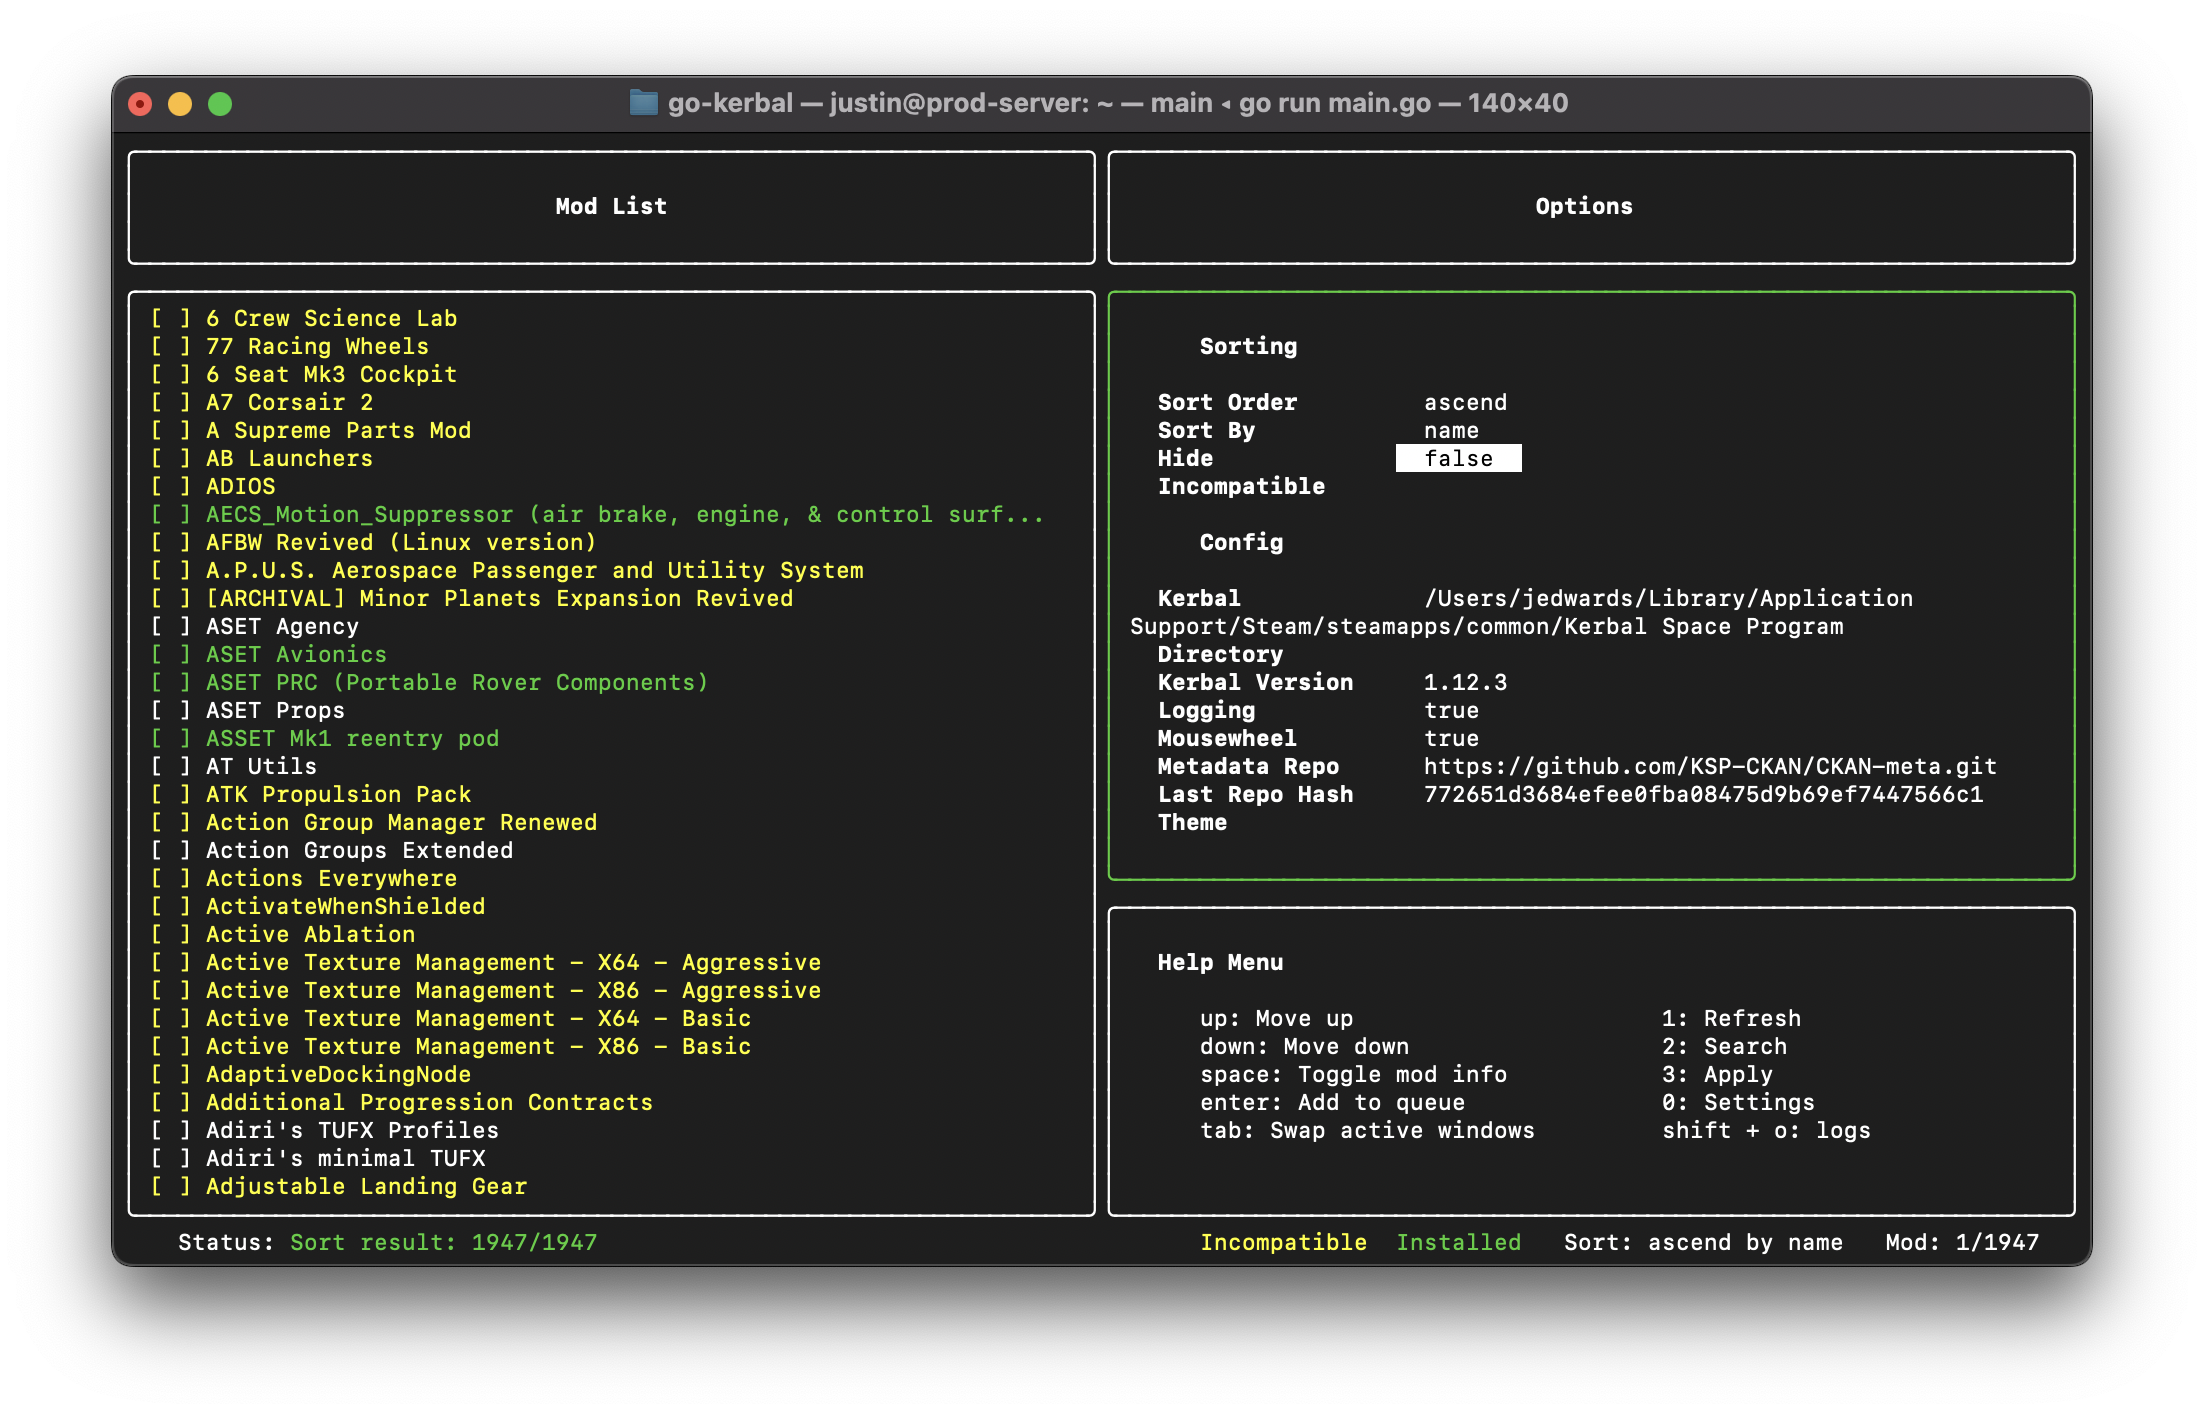
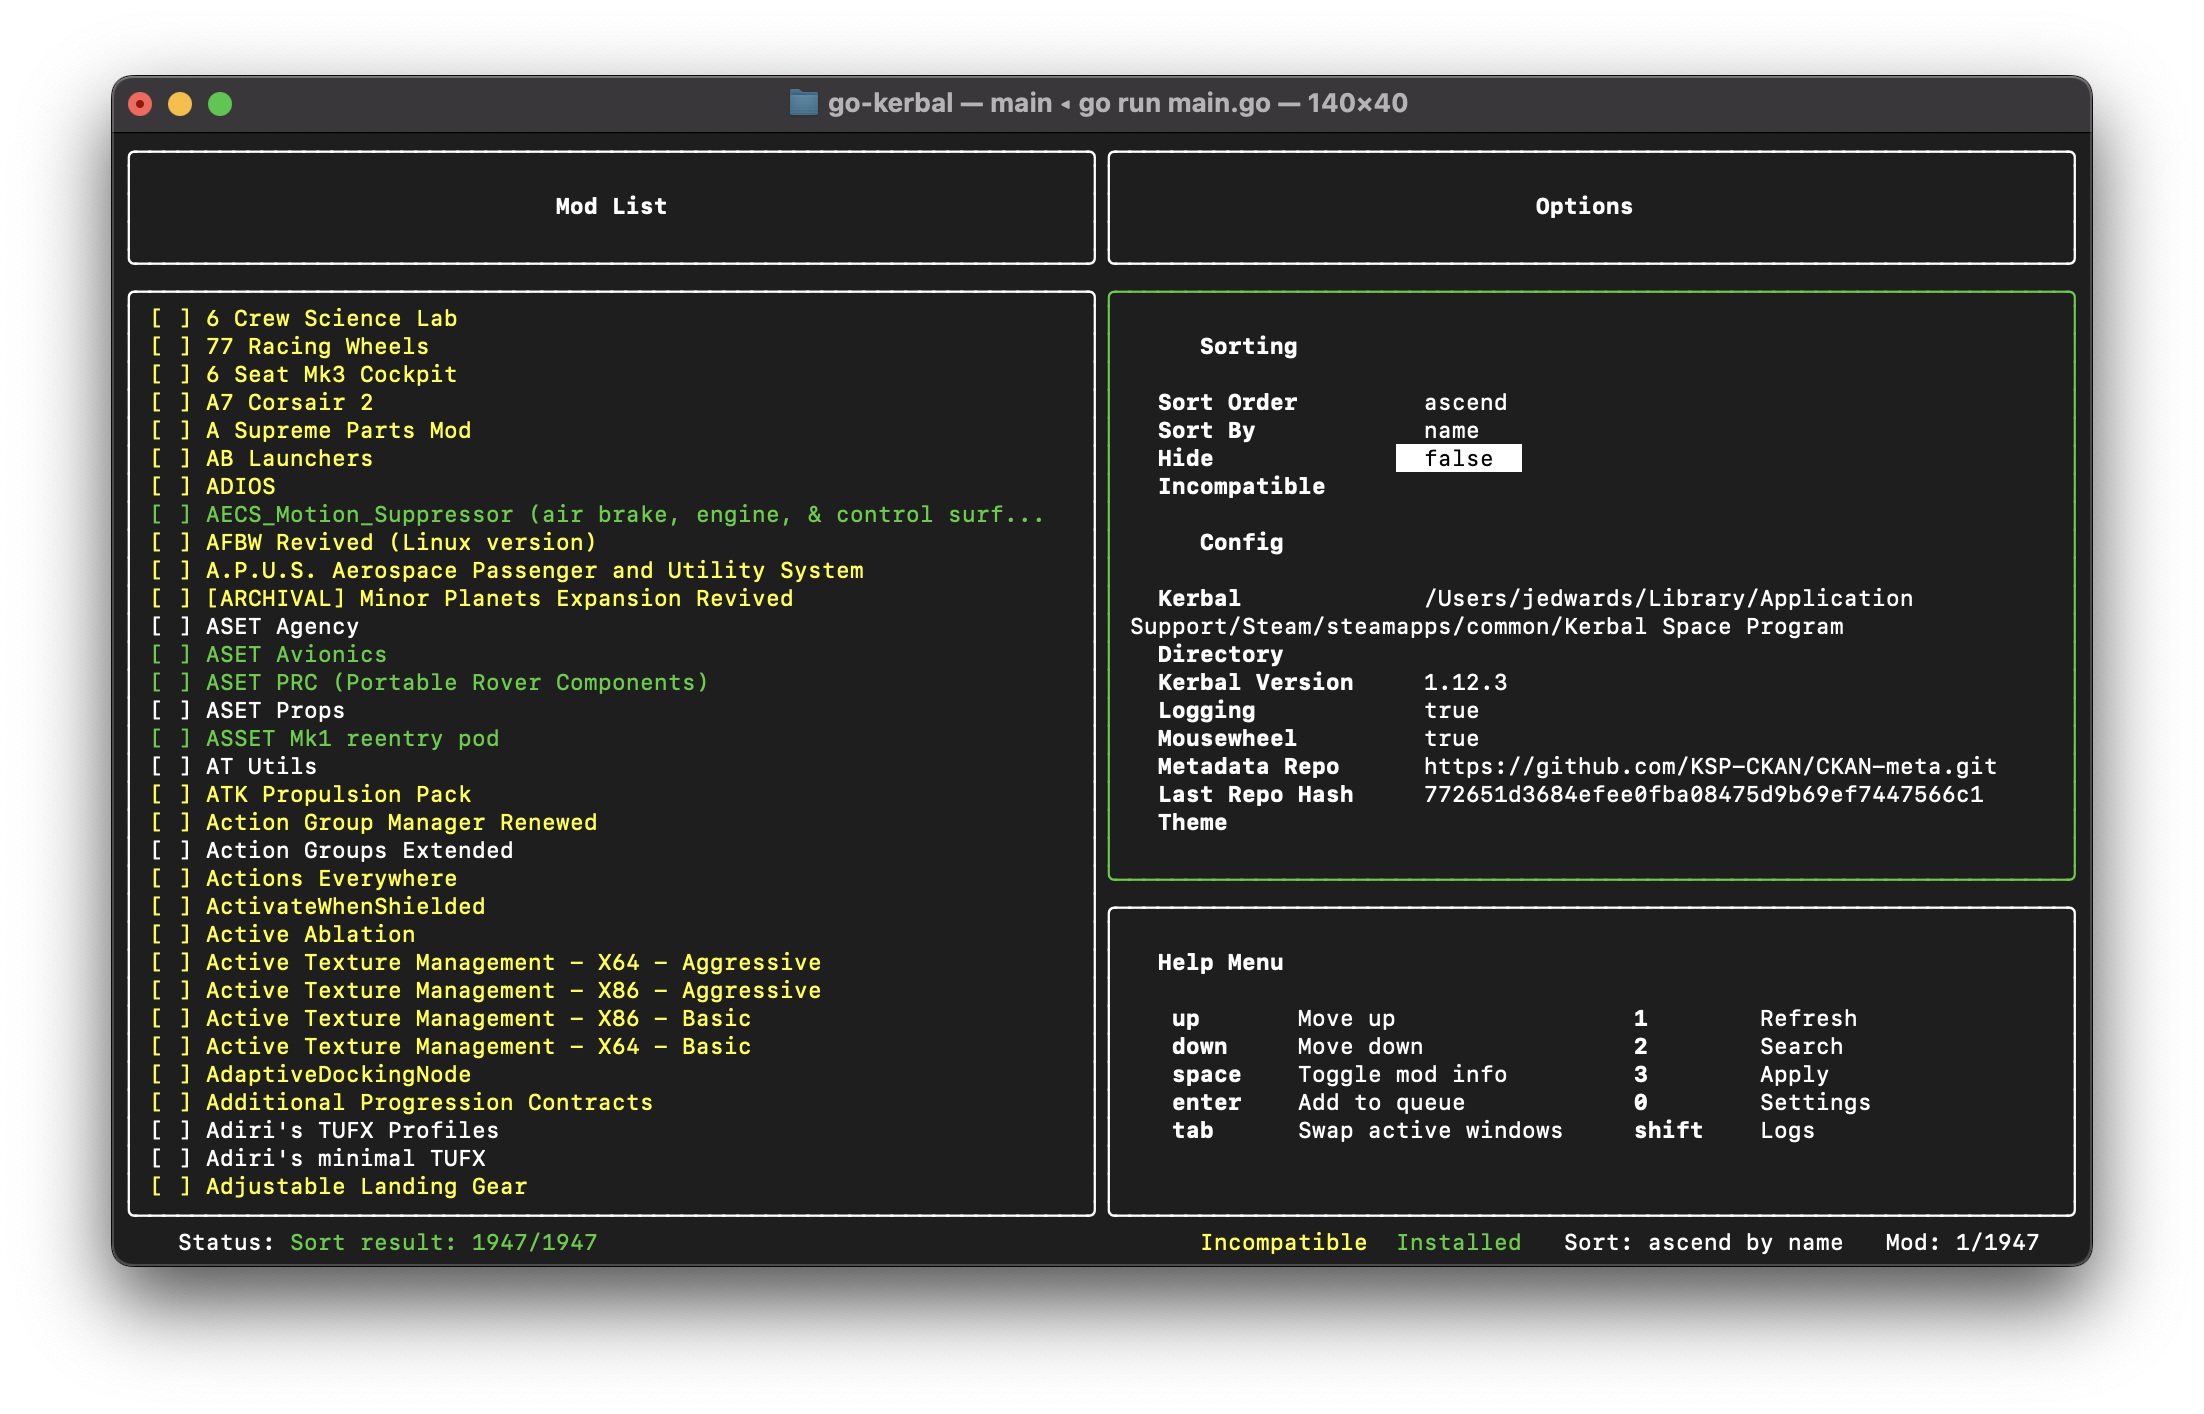
better formatted help view

diff --git a/internal/tui/views.go b/internal/tui/views.go
@@ -675,26 +675,26 @@ func (b Bubble) helpView() string {
 		Width(b.bubbles.commandViewport.Width).
 		Padding(1, 2, 0)
 
-	itemStyle := lipgloss.NewStyle().
-		Width((b.bubbles.commandViewport.Width / 2)).
-		Padding(0, 4).
-		Align(lipgloss.Left).
-		Render
+	/* itemStyle := lipgloss.NewStyle().
+	Width((b.bubbles.commandViewport.Width / 2)).
+	Padding(0, 4).
+	Align(lipgloss.Left).
+	Render */
 
 	leftColumn := []string{
-		itemStyle("up: Move up"),
-		itemStyle("down: Move down"),
-		itemStyle("space: Toggle mod info"),
-		itemStyle("enter: Add to queue"),
-		itemStyle("tab: Swap active windows"),
+		b.drawHelpKV("up", "Move up"),
+		b.drawHelpKV("down", "Move down"),
+		b.drawHelpKV("space", "Toggle mod info"),
+		b.drawHelpKV("enter", "Add to queue"),
+		b.drawHelpKV("tab", "Swap active windows"),
 	}
 
 	rightColumn := []string{
-		itemStyle("1: Refresh"),
-		itemStyle("2: Search"),
-		itemStyle("3: Apply"),
-		itemStyle("0: Settings"),
-		itemStyle("shift + o: logs"),
+		b.drawHelpKV("1", "Refresh"),
+		b.drawHelpKV("2", "Search"),
+		b.drawHelpKV("3", "Apply"),
+		b.drawHelpKV("0", "Settings"),
+		b.drawHelpKV("shift", "Logs"),
 	}
 
 	content := connectHorz(connectVert(leftColumn...), connectVert(rightColumn...))

diff --git a/internal/tui/view.go b/internal/tui/view.go
@@ -146,6 +146,20 @@ func (b Bubble) drawKV(k, v string, color bool) string {
 	}
 }
 
+func (b Bubble) drawHelpKV(k, v string) string {
+	keyStyle := lipgloss.NewStyle().
+		Align(lipgloss.Left).
+		Bold(true).
+		Width(b.bubbles.secondaryViewport.Width/6).
+		Padding(0, 1, 0, 2)
+
+	valueStyle := lipgloss.NewStyle().
+		Align(lipgloss.Left).
+		PaddingRight(3)
+
+	return connectHorz(keyStyle.Render(k), valueStyle.Render(v))
+}
+
 func connectHorz(strs ...string) string {
 	return lipgloss.JoinHorizontal(lipgloss.Top, strs...)
 }
